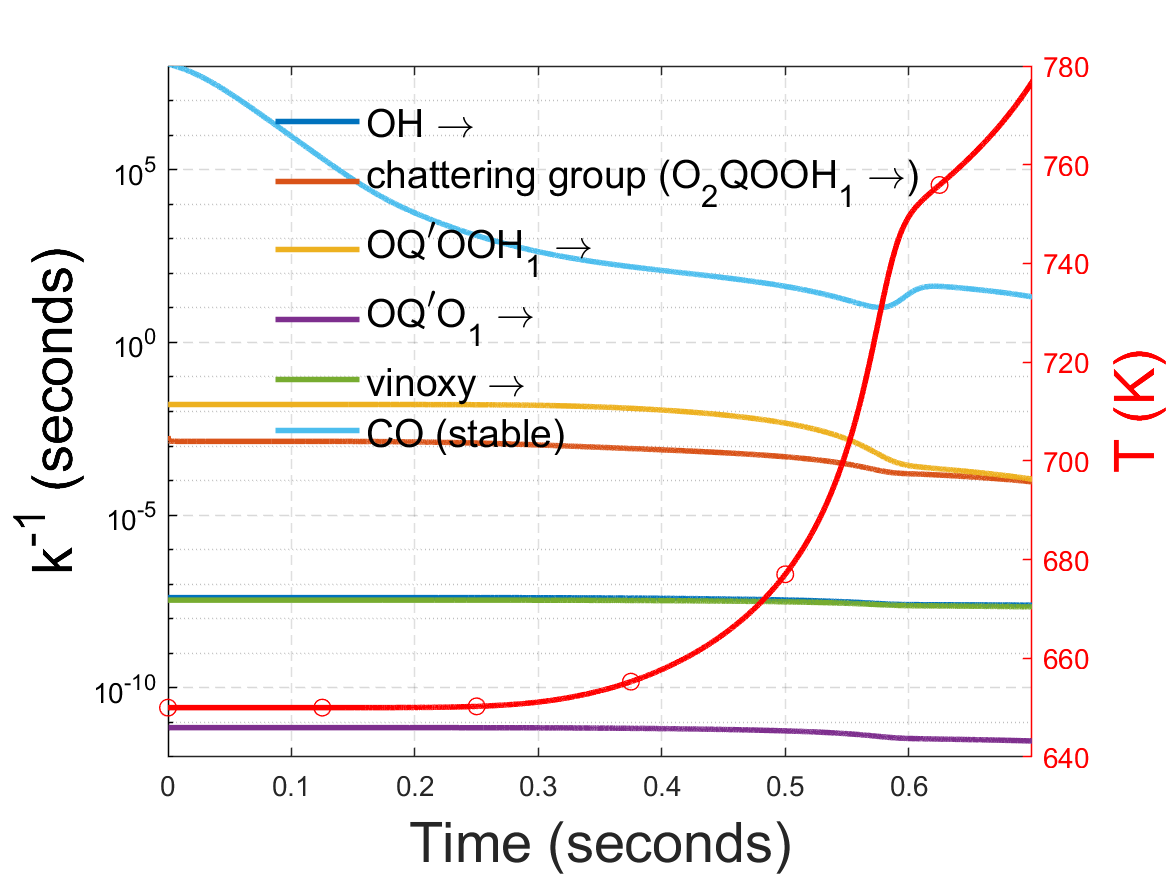
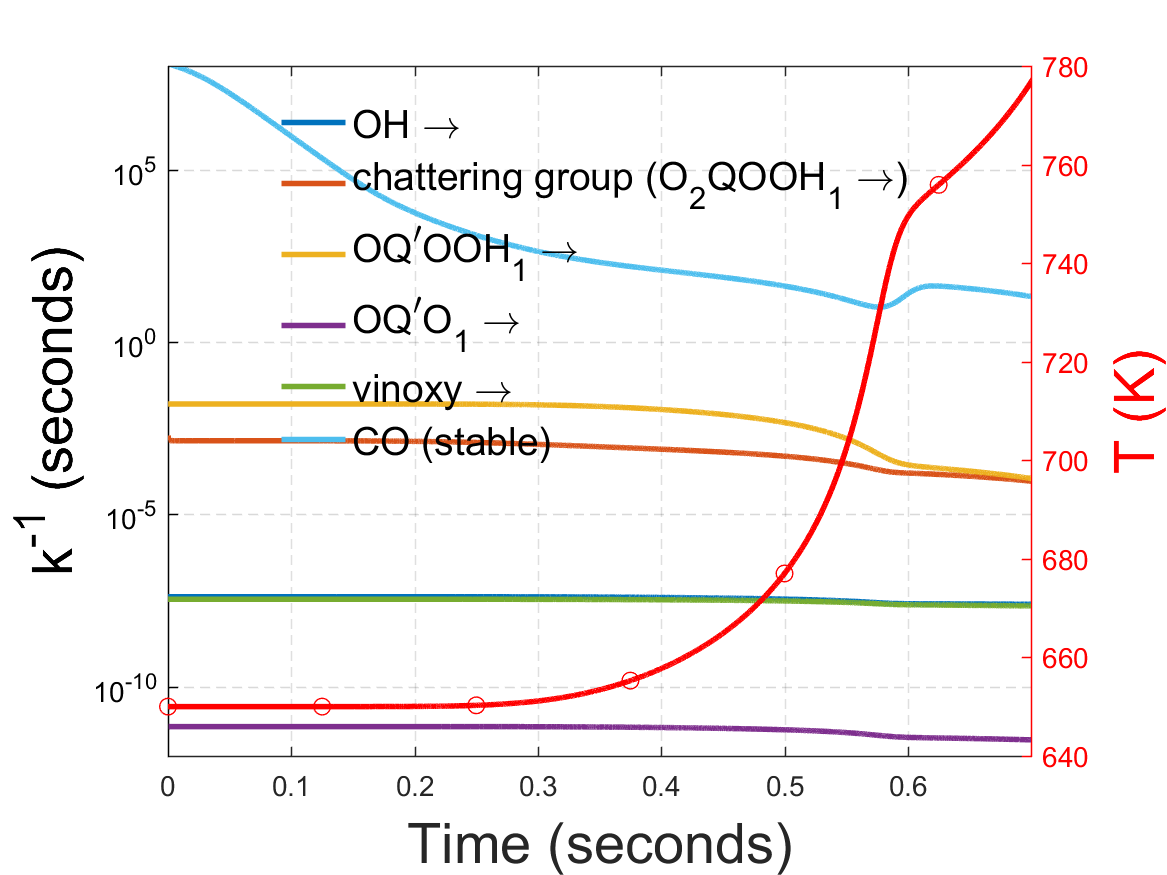
life time of all chattering groups and life time of species concerning secondary chemistry

diff --git a/theory/misc/life_time/plot_k_temp_all_chattering_group.m b/theory/misc/life_time/plot_k_temp_all_chattering_group.m
@@ -1,0 +1,159 @@
+%% global settings
+markers = {'+' , 'o' , '*' , 'x' , 'square' , 'diamond' , 'v' , '^' , '>' , '<' , 'pentagram' , 'hexagram' , '.'};
+
+%% Current file directory
+file_dir = fullfile(fileparts(mfilename('fullpath')), '..', '..', '..', '..', '..', '..', 'SOHR_DATA');
+pic_dir = fullfile(fileparts(mfilename('fullpath')));
+
+%% import time
+fn_time = fullfile(file_dir, 'output', 'time_dlsode_M.csv');
+delimiter = '';
+formatSpec = '%f%[^\n\r]';
+%% Open the text file.
+fileID = fopen(fn_time,'r');
+dataArray = textscan(fileID, formatSpec, 'Delimiter', delimiter, 'EmptyValue' ,NaN, 'ReturnOnError', false);
+
+%% Close the text file.
+fclose(fileID);
+time_vec = dataArray{:, 1};
+%% Clear temporary variables
+clearvars fn_time delimiter formatSpec fileID dataArray ans;
+
+%% import drc
+fn_drc = fullfile(file_dir, 'output', 'drc_dlsode_M.csv');
+delimiter = ',';
+% For more information, see the TEXTSCAN documentation.
+formatSpec = '%f%f%f%f%f%f%f%f%f%f%f%f%f%f%f%f%f%f%f%f%f%f%f%f%f%f%f%f%f%f%f%f%f%f%f%f%f%f%f%f%f%f%f%f%f%f%f%f%f%f%f%f%f%f%f%f%f%f%f%f%f%f%f%f%f%f%f%f%f%f%f%f%f%f%f%f%f%f%f%f%f%f%f%f%f%f%f%f%f%f%f%f%f%f%f%f%f%f%f%f%f%f%f%f%f%f%f%f%f%f%[^\n\r]';
+%% Open the text file.
+fileID = fopen(fn_drc,'r');
+%% Read columns of data according to format string.
+dataArray = textscan(fileID, formatSpec, 'Delimiter', delimiter, 'EmptyValue' ,NaN, 'ReturnOnError', false);
+%% Close the text file.
+fclose(fileID);
+%% Create output variable
+drc_mat = [dataArray{1:end-1}];
+%% Clear temporary variables
+clearvars fn_conc delimiter formatSpec fileID dataArray ans;
+
+%% chattering group drc
+%% Initialize variables.
+fn_chattering_drc = fullfile(file_dir, 'output', 'chattering_group_drc_dlsode_M.csv');
+
+delimiter = ',';
+formatSpec = '%f%f%f%f%f%f%f%f%f%[^\n\r]';
+%% Open the text file.
+fileID = fopen(fn_chattering_drc,'r');
+dataArray = textscan(fileID, formatSpec, 'Delimiter', delimiter, 'EmptyValue' ,NaN, 'ReturnOnError', false);
+%% Close the text file.
+fclose(fileID);
+%% Create output variable
+chattering_drc_mat = [dataArray{1:end-1}];
+%% Clear temporary variables
+clearvars fn_chattering_drc delimiter formatSpec fileID dataArray ans;
+
+%% import temperature
+fn_temp = fullfile(file_dir, 'output', 'temperature_dlsode_M.csv');
+delimiter = '';
+formatSpec = '%f%[^\n\r]';
+%% Open the text file.
+fileID = fopen(fn_temp,'r');
+%% Read columns of data according to format string.
+dataArray = textscan(fileID, formatSpec, 'Delimiter', delimiter, 'EmptyValue' ,NaN, 'ReturnOnError', false);
+%% Close the text file.
+fclose(fileID);
+%% Allocate imported array to column variable names
+temp_vec = dataArray{:, 1};
+%% Clear temporary variables
+clearvars fn_temp delimiter formatSpec fileID dataArray ans;
+
+%% plot
+fig = figure();
+% https://www.mathworks.com/help/matlab/graphics_transition/why-are-plot-lines-different-colors.html
+% https://www.mathworks.com/help/matlab/creating_plots/customize-graph-with-two-y-axes.html
+%%
+co = [    
+    1   0   0
+    ]; % 9th plot, red
+set(fig,'defaultAxesColorOrder',co);
+tau = 0.777660157519;
+end_t = 0.9;
+
+% plot chattering group drc
+ch_idx_vec = [0, 1, 2, 3, 4, 5, 6, 7, 8];
+N = length(ch_idx_vec);
+
+% sort by the reaction rates around 0.5 tau, idx == 3550 for example
+sort_axis = round(0.1 * length(time_vec));
+[B,I] = sort(1./chattering_drc_mat(sort_axis, :),'descend');
+
+% legend name
+old_legend_str = cell(N,1);
+old_legend_str{1, 1} = 'CH_3 & CH_3OO';
+old_legend_str{2, 1} = 'C_2H_5 & C_2H_5OO';
+old_legend_str{3, 1} = 'acetyl & acetylperoxy';
+old_legend_str{4, 1} = 'nR & nROO & QOOH_1 &O_2QOOH_1';
+old_legend_str{5, 1} = 'iR & iROO';
+old_legend_str{6, 1} = 'allyloxy & vinoxylmethyl';
+old_legend_str{7, 1} = 'C_2H_4OH & O_2C_2H_4OH';
+old_legend_str{8, 1} = 'QOOH_2 & O_2QOOH_2';
+old_legend_str{9, 1} = 'QOOH_3 & O_2QOOH_3';
+
+legend_str = cell(N,1);
+
+colors = lines(N);
+
+delta_n = 1000;
+H = gobjects(N);
+for idx=1:N
+%     group_idx = ch_idx_vec(idx) + 1;
+    group_idx = ch_idx_vec(I(idx)) + 1;
+    legend_str{idx, 1} = old_legend_str{I(idx), 1};
+    if group_idx == 3
+        init_idx = 350;
+        H(idx) = semilogy(time_vec(init_idx:end), 1./chattering_drc_mat(init_idx:end, group_idx),...
+        'LineWidth', 2, 'color', colors(idx, :), ...
+        'HandleVisibility','off'); 
+    else
+        H(idx) = semilogy(time_vec, 1./chattering_drc_mat(:, group_idx),...
+        'LineWidth', 2, 'color', colors(idx, :), ...
+        'HandleVisibility','off'); 
+    end
+    hold on;
+%     set(gca,'yscale','log');
+    scatter(time_vec(1:delta_n:end), 1./chattering_drc_mat(1:delta_n:end, group_idx),...
+        'LineWidth', 2, 'MarkerEdgeColor', colors(idx, :), 'marker', markers{1, mod(idx-1, length(markers))+ 1}, ...
+        'HandleVisibility','off');
+    hold on;
+    plot(nan, nan, 'LineWidth', 2, 'color', colors(idx, :), 'marker', markers{1, mod(idx-1, length(markers))+ 1});
+    hold on;
+end
+
+%% conc
+set(gca,'GridLineStyle','--');
+xlabel('Time (seconds)', 'FontSize', 20);
+ylabel('k^{-1} (seconds)', 'FontSize', 20);
+ylim([10^-7.35, 10^-1.7]);
+% ylim([10^-12, 10^8]);
+
+%% temperature
+yyaxis right;
+delta_n2 = 1000;
+plot(time_vec, temp_vec, 'LineWidth', 2, 'color', 'r'); hold on;
+pt = scatter(time_vec(1:delta_n2:end), temp_vec(1:delta_n2:end), 'MarkerEdgeColor', 'r', 'HandleVisibility','off');
+ylabel('T (K)', 'FontSize', 20);
+% set(gca, 'ytick', []);
+
+%% global settings
+grid on;
+xlim([0, tau*end_t]);
+% leg_h = legend(old_legend_str);
+leg_h = legend(legend_str);
+set(leg_h, 'FontSize', 11, 'Box', 'off');
+set(leg_h, 'Location', 'West');
+
+
+%% save to file
+figname = strcat('all_chattering_group', '.png');
+print(fig, fullfile(pic_dir, figname), '-r200', '-dpng');
+
+

diff --git a/theory/misc/life_time/plot_k_temp_selected_species_v1.m b/theory/misc/life_time/plot_k_temp_selected_species_v1.m
@@ -1,0 +1,164 @@
+%% global settings
+markers = {'+' , 'o' , '*' , 'x' , 'square' , 'diamond' , 'v' , '^' , '>' , '<' , 'pentagram' , 'hexagram' , '.'};
+
+%% Current file directory
+file_dir = fullfile(fileparts(mfilename('fullpath')), '..', '..', '..', '..', '..', '..', 'SOHR_DATA');
+pic_dir = fullfile(fileparts(mfilename('fullpath')));
+
+%% import time
+fn_time = fullfile(file_dir, 'output', 'time_dlsode_M.csv');
+delimiter = '';
+formatSpec = '%f%[^\n\r]';
+%% Open the text file.
+fileID = fopen(fn_time,'r');
+dataArray = textscan(fileID, formatSpec, 'Delimiter', delimiter, 'EmptyValue' ,NaN, 'ReturnOnError', false);
+
+%% Close the text file.
+fclose(fileID);
+time_vec = dataArray{:, 1};
+%% Clear temporary variables
+clearvars fn_time delimiter formatSpec fileID dataArray ans;
+
+%% import drc
+fn_drc = fullfile(file_dir, 'output', 'drc_dlsode_M.csv');
+delimiter = ',';
+% For more information, see the TEXTSCAN documentation.
+formatSpec = '%f%f%f%f%f%f%f%f%f%f%f%f%f%f%f%f%f%f%f%f%f%f%f%f%f%f%f%f%f%f%f%f%f%f%f%f%f%f%f%f%f%f%f%f%f%f%f%f%f%f%f%f%f%f%f%f%f%f%f%f%f%f%f%f%f%f%f%f%f%f%f%f%f%f%f%f%f%f%f%f%f%f%f%f%f%f%f%f%f%f%f%f%f%f%f%f%f%f%f%f%f%f%f%f%f%f%f%f%f%f%[^\n\r]';
+%% Open the text file.
+fileID = fopen(fn_drc,'r');
+%% Read columns of data according to format string.
+dataArray = textscan(fileID, formatSpec, 'Delimiter', delimiter, 'EmptyValue' ,NaN, 'ReturnOnError', false);
+%% Close the text file.
+fclose(fileID);
+%% Create output variable
+drc_mat = [dataArray{1:end-1}];
+%% Clear temporary variables
+clearvars fn_conc delimiter formatSpec fileID dataArray ans;
+
+%% chattering group drc
+%% Initialize variables.
+fn_chattering_drc = fullfile(file_dir, 'output', 'chattering_group_drc_dlsode_M.csv');
+
+delimiter = ',';
+formatSpec = '%f%f%f%f%f%f%f%f%f%[^\n\r]';
+%% Open the text file.
+fileID = fopen(fn_chattering_drc,'r');
+dataArray = textscan(fileID, formatSpec, 'Delimiter', delimiter, 'EmptyValue' ,NaN, 'ReturnOnError', false);
+%% Close the text file.
+fclose(fileID);
+%% Create output variable
+chattering_drc_mat = [dataArray{1:end-1}];
+%% Clear temporary variables
+clearvars fn_chattering_drc delimiter formatSpec fileID dataArray ans;
+
+%% import temperature
+fn_temp = fullfile(file_dir, 'output', 'temperature_dlsode_M.csv');
+delimiter = '';
+formatSpec = '%f%[^\n\r]';
+%% Open the text file.
+fileID = fopen(fn_temp,'r');
+%% Read columns of data according to format string.
+dataArray = textscan(fileID, formatSpec, 'Delimiter', delimiter, 'EmptyValue' ,NaN, 'ReturnOnError', false);
+%% Close the text file.
+fclose(fileID);
+%% Allocate imported array to column variable names
+temp_vec = dataArray{:, 1};
+%% Clear temporary variables
+clearvars fn_temp delimiter formatSpec fileID dataArray ans;
+
+%% plot
+fig = figure();
+% https://www.mathworks.com/help/matlab/graphics_transition/why-are-plot-lines-different-colors.html
+% https://www.mathworks.com/help/matlab/creating_plots/customize-graph-with-two-y-axes.html
+%%
+co = [    
+    1   0   0
+    ]; % 9th plot, red
+set(fig,'defaultAxesColorOrder',co);
+tau = 0.777660157519;
+end_t = 0.9;
+
+% plot chattering group drc
+spe_idx_vec = [79, 76, 17, 28, 51, 49, 81, 77, 59, 95, 69, 63, 44];
+N = length(spe_idx_vec);
+for i = 1:N
+    spe_idx_vec(i) = spe_idx_vec(i) + 1;
+end
+drc_mat = drc_mat(:, spe_idx_vec);
+
+% sort by the reaction rates around 0.5 tau, idx == 3550 for example
+sort_axis = round(0.6 * length(time_vec));
+[B,I] = sort(1./drc_mat(sort_axis, :),'descend');
+
+% legend name
+old_legend_str = cell(N,1);
+old_legend_str{1, 1} = 'nROOH';
+old_legend_str{2, 1} = 'nRO';
+old_legend_str{3, 1} = 'CH_2O';
+old_legend_str{4, 1} = 'CH_3OOH';
+old_legend_str{5, 1} = 'CH_3CH_2OOH';
+old_legend_str{6, 1} = 'ethoxy';
+old_legend_str{7, 1} = 'iROOH';
+old_legend_str{8, 1} = 'iRO';
+old_legend_str{9, 1} = 'C_3H_6';
+old_legend_str{10, 1} = 'prod_2';
+old_legend_str{11, 1} = 'acrolein';
+old_legend_str{12, 1} = 'allyl';
+old_legend_str{13, 1} = 'acetaldehyde';
+
+legend_str = cell(N,1);
+
+colors = lines(N);
+
+delta_n = 1000;
+H = gobjects(N);
+for idx=1:N
+%     spe_idx = ch_idx_vec(idx) + 1;
+%     spe_idx = spe_idx_vec(I(idx));
+    spe_idx = I(idx);
+    legend_str{idx, 1} = old_legend_str{I(idx), 1};
+
+    H(idx) = semilogy(time_vec, 1./drc_mat(:, spe_idx),...
+        'LineWidth', 2, 'color', colors(idx, :), ...
+        'HandleVisibility','off');
+
+    hold on;
+%     set(gca,'yscale','log');
+    scatter(time_vec(1:delta_n:end), 1./drc_mat(1:delta_n:end, spe_idx),...
+        'LineWidth', 2, 'MarkerEdgeColor', colors(idx, :), 'marker', markers{1, mod(idx-1, length(markers))+ 1}, ...
+        'HandleVisibility','off');
+    hold on;
+    plot(nan, nan, 'LineWidth', 2, 'color', colors(idx, :), 'marker', markers{1, mod(idx-1, length(markers))+ 1});
+    hold on;
+end
+
+%% conc
+set(gca,'GridLineStyle','--');
+xlabel('Time (seconds)', 'FontSize', 20);
+ylabel('k^{-1} (seconds)', 'FontSize', 20);
+ylim([10^-10, 10^5.35]);
+% ylim([10^-12, 10^8]);
+
+%% temperature
+yyaxis right;
+delta_n2 = 1000;
+plot(time_vec, temp_vec, 'LineWidth', 2, 'color', 'r'); hold on;
+pt = scatter(time_vec(1:delta_n2:end), temp_vec(1:delta_n2:end), 'MarkerEdgeColor', 'r', 'HandleVisibility','off');
+ylabel('T (K)', 'FontSize', 20);
+% set(gca, 'ytick', []);
+
+%% global settings
+grid on;
+xlim([0, tau*end_t]);
+% leg_h = legend(old_legend_str);
+leg_h = legend(legend_str);
+set(leg_h, 'FontSize', 11, 'Box', 'off');
+set(leg_h, 'Location', 'North');
+
+
+
+%% save to file
+figname = strcat('selected_species_v1', '.png');
+print(fig, fullfile(pic_dir, figname), '-r200', '-dpng');
+
+
